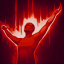
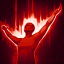
feat: buff god emporer

diff --git a/IsekaiMod/Content/Features/IsekaiProtagonist/GodEmperor/ProtectiveAuraFeature.cs b/IsekaiMod/Content/Features/IsekaiProtagonist/GodEmperor/ProtectiveAuraFeature.cs
@@ -10,6 +10,8 @@ using Kingmaker.UnitLogic.ActivatableAbilities;
 using Kingmaker.UnitLogic.Buffs.Blueprints;
 using Kingmaker.UnitLogic.Buffs.Components;
 using Kingmaker.UnitLogic.FactLogic;
+using Kingmaker.UnitLogic.Mechanics;
+using Kingmaker.UnitLogic.Mechanics.Components;
 using Kingmaker.Utility;
 
 namespace IsekaiMod.Content.Features.IsekaiProtagonist.GodEmperor
@@ -21,28 +23,49 @@ namespace IsekaiMod.Content.Features.IsekaiProtagonist.GodEmperor
             var Icon_Protective_Aura = AssetLoader.LoadInternal("Features", "ICON_PROTECTIVE_AURA.png");
             var ProtectiveAuraBuff = Helpers.CreateBlueprint<BlueprintBuff>("ProtectiveAuraBuff", bp => {
                 bp.SetName("Protective Aura");
-                bp.SetDescription("This character has a +2 bonus on AC and saving throws.");
+                bp.SetDescription("This character has a sacred bonus to AC and saving throws equal to 1/2 the God Emporer's character level.");
                 bp.IsClassFeature = true;
                 bp.m_Icon = Icon_Protective_Aura;
-                bp.AddComponent<AddStatBonus>(c => {
-                    c.Descriptor = ModifierDescriptor.None;
+                bp.AddComponent<AddContextStatBonus>(c => {
+                    c.Descriptor = ModifierDescriptor.Sacred;
                     c.Stat = StatType.AC;
-                    c.Value = 2;
+                    c.Value = new ContextValue()
+                    {
+                        ValueType = ContextValueType.Rank,
+                        ValueRank = AbilityRankType.StatBonus
+                    };
                 });
-                bp.AddComponent<AddStatBonus>(c => {
-                    c.Descriptor = ModifierDescriptor.None;
+                bp.AddComponent<AddContextStatBonus>(c => {
+                    c.Descriptor = ModifierDescriptor.Sacred;
                     c.Stat = StatType.SaveFortitude;
-                    c.Value = 2;
+                    c.Value = new ContextValue()
+                    {
+                        ValueType = ContextValueType.Rank,
+                        ValueRank = AbilityRankType.StatBonus
+                    };
                 });
-                bp.AddComponent<AddStatBonus>(c => {
-                    c.Descriptor = ModifierDescriptor.None;
+                bp.AddComponent<AddContextStatBonus>(c => {
+                    c.Descriptor = ModifierDescriptor.Sacred;
                     c.Stat = StatType.SaveReflex;
-                    c.Value = 2;
+                    c.Value = new ContextValue()
+                    {
+                        ValueType = ContextValueType.Rank,
+                        ValueRank = AbilityRankType.StatBonus
+                    };
                 });
-                bp.AddComponent<AddStatBonus>(c => {
-                    c.Descriptor = ModifierDescriptor.None;
+                bp.AddComponent<AddContextStatBonus>(c => {
+                    c.Descriptor = ModifierDescriptor.Sacred;
                     c.Stat = StatType.SaveWill;
-                    c.Value = 2;
+                    c.Value = new ContextValue()
+                    {
+                        ValueType = ContextValueType.Rank,
+                        ValueRank = AbilityRankType.StatBonus
+                    };
+                });
+                bp.AddComponent<ContextRankConfig>(c => {
+                    c.m_Type = AbilityRankType.StatBonus;
+                    c.m_BaseValueType = ContextRankBaseValueType.CharacterLevel;
+                    c.m_Progression = ContextRankProgression.Div2;
                 });
                 bp.FxOnStart = new PrefabLink();
                 bp.FxOnRemove = new PrefabLink();
@@ -59,7 +82,7 @@ namespace IsekaiMod.Content.Features.IsekaiProtagonist.GodEmperor
             });
             var ProtectiveAuraAreaBuff = Helpers.CreateBlueprint<BlueprintBuff>("ProtectiveAuraAreaBuff", bp => {
                 bp.SetName("Protective Aura");
-                bp.SetDescription("Allies within 40 feet of the God Emperor take a +2 bonus on AC, and saving throws.");
+                bp.SetDescription("Allies within 40 feet of the God Emperor has a sacred bonus to AC and saving throws equal to 1/2 the God Emporer's character level.");
                 bp.m_Icon = Icon_Protective_Aura;
                 bp.IsClassFeature = true;
                 bp.m_Flags = BlueprintBuff.Flags.HiddenInUi;
@@ -71,7 +94,7 @@ namespace IsekaiMod.Content.Features.IsekaiProtagonist.GodEmperor
             });
             var ProtectiveAuraAbility = Helpers.CreateBlueprint<BlueprintActivatableAbility>("ProtectiveAuraAbility", bp => {
                 bp.SetName("Protective Aura");
-                bp.SetDescription("Allies within 40 feet of the God Emperor take a +2 bonus on AC, and saving throws.");
+                bp.SetDescription("Allies within 40 feet of the God Emperor has a sacred bonus to AC and saving throws equal to 1/2 the God Emporer's character level.");
                 bp.m_Icon = Icon_Protective_Aura;
                 bp.m_Buff = ProtectiveAuraAreaBuff.ToReference<BlueprintBuffReference>();
                 bp.Group = ActivatableAbilityGroup.None;
@@ -83,7 +106,7 @@ namespace IsekaiMod.Content.Features.IsekaiProtagonist.GodEmperor
             });
             var ProtectiveAuraFeature = Helpers.CreateBlueprint<BlueprintFeature>("ProtectiveAuraFeature", bp => {
                 bp.SetName("Protective Aura");
-                bp.SetDescription("At 6th level, allies within 40 feet of the God Emperor take a +2 bonus on AC, and saving throws.");
+                bp.SetDescription("At 6th level, allies within 40 feet of the God Emperor has a sacred bonus to AC and saving throws equal to 1/2 the God Emporer's character level.");
                 bp.m_Icon = Icon_Protective_Aura;
                 bp.Ranks = 1;
                 bp.IsClassFeature = true;

diff --git a/IsekaiMod/Content/Features/IsekaiProtagonist/GodEmperor/GloriousAuraFeature.cs b/IsekaiMod/Content/Features/IsekaiProtagonist/GodEmperor/GloriousAuraFeature.cs
@@ -11,6 +11,8 @@ using Kingmaker.UnitLogic.ActivatableAbilities;
 using Kingmaker.UnitLogic.Buffs.Blueprints;
 using Kingmaker.UnitLogic.Buffs.Components;
 using Kingmaker.UnitLogic.FactLogic;
+using Kingmaker.UnitLogic.Mechanics;
+using Kingmaker.UnitLogic.Mechanics.Components;
 using Kingmaker.Utility;
 
 namespace IsekaiMod.Content.Features.IsekaiProtagonist.GodEmperor
@@ -19,21 +21,34 @@ namespace IsekaiMod.Content.Features.IsekaiProtagonist.GodEmperor
     {
         public static void Add()
         {
-            var Icon_BurstOfGlory = Resources.GetBlueprint<BlueprintAbility>("1bc83efec9f8c4b42a46162d72cbf494").m_Icon;
+            var Icon_Glorious_Aura = AssetLoader.LoadInternal("Features", "ICON_GLORIOUS_AURA.png");
             var GloriousAuraBuff = Helpers.CreateBlueprint<BlueprintBuff>("GloriousAuraBuff", bp => {
                 bp.SetName("Glorious Aura");
-                bp.SetDescription("This character has a +2 bonus on attack {g|Encyclopedia:Dice}rolls{/g} and caster level checks made to overcome spell resistance.");
+                bp.SetDescription("This character has a competence bonus on attack {g|Encyclopedia:Dice}rolls{/g} and caster level checks made to overcome spell resistance equal to 1/2 the God Emporer's character level.");
                 bp.IsClassFeature = true;
-                bp.m_Icon = Icon_BurstOfGlory;
-                bp.AddComponent<AddStatBonus>(c => {
-                    c.Descriptor = ModifierDescriptor.None;
+                bp.m_Icon = Icon_Glorious_Aura;
+                bp.AddComponent<AddContextStatBonus>(c => {
+                    c.Descriptor = ModifierDescriptor.Competence;
                     c.Stat = StatType.AdditionalAttackBonus;
-                    c.Value = 2;
+                    c.Value = new ContextValue()
+                    {
+                        ValueType = ContextValueType.Rank,
+                        ValueRank = AbilityRankType.StatBonus
+                    };
                 });
                 bp.AddComponent<SpellPenetrationBonus>(c => {
-                    c.Descriptor = ModifierDescriptor.None;
-                    c.Value = 2;
+                    c.Descriptor = ModifierDescriptor.Competence;
                     c.CheckFact = false;
+                    c.Value = new ContextValue()
+                    {
+                        ValueType = ContextValueType.Rank,
+                        ValueRank = AbilityRankType.StatBonus
+                    };
+                });
+                bp.AddComponent<ContextRankConfig>(c => {
+                    c.m_Type = AbilityRankType.StatBonus;
+                    c.m_BaseValueType = ContextRankBaseValueType.CharacterLevel;
+                    c.m_Progression = ContextRankProgression.Div2;
                 });
                 bp.FxOnStart = new PrefabLink();
                 bp.FxOnRemove = new PrefabLink();
@@ -50,8 +65,8 @@ namespace IsekaiMod.Content.Features.IsekaiProtagonist.GodEmperor
             });
             var GloriousAuraAreaBuff = Helpers.CreateBlueprint<BlueprintBuff>("GloriousAuraAreaBuff", bp => {
                 bp.SetName("Glorious Aura");
-                bp.SetDescription("Allies within 40 feet of the God Emperor gain a +2 bonus on attack {g|Encyclopedia:Dice}rolls{/g} and caster level checks made to overcome spell resistance.");
-                bp.m_Icon = Icon_BurstOfGlory;
+                bp.SetDescription("Allies within 40 feet of the God Emperor gain a competence bonus on attack {g|Encyclopedia:Dice}rolls{/g} and caster level checks made to overcome spell resistance equal to 1/2 the God Emporer's character level.");
+                bp.m_Icon = Icon_Glorious_Aura;
                 bp.IsClassFeature = true;
                 bp.m_Flags = BlueprintBuff.Flags.HiddenInUi;
                 bp.AddComponent<AddAreaEffect>(c => {
@@ -62,8 +77,8 @@ namespace IsekaiMod.Content.Features.IsekaiProtagonist.GodEmperor
             });
             var GloriousAuraAbility = Helpers.CreateBlueprint<BlueprintActivatableAbility>("GloriousAuraAbility", bp => {
                 bp.SetName("Glorious Aura");
-                bp.SetDescription("Allies within 40 feet of the God Emperor gain a +2 bonus on attack {g|Encyclopedia:Dice}rolls{/g} and caster level checks made to overcome spell resistance.");
-                bp.m_Icon = Icon_BurstOfGlory;
+                bp.SetDescription("Allies within 40 feet of the God Emperor gain a competence bonus on attack {g|Encyclopedia:Dice}rolls{/g} and caster level checks made to overcome spell resistance equal to 1/2 the God Emporer's character level.");
+                bp.m_Icon = Icon_Glorious_Aura;
                 bp.m_Buff = GloriousAuraAreaBuff.ToReference<BlueprintBuffReference>();
                 bp.Group = ActivatableAbilityGroup.None;
                 bp.WeightInGroup = 1;
@@ -74,8 +89,8 @@ namespace IsekaiMod.Content.Features.IsekaiProtagonist.GodEmperor
             });
             var GloriousAuraFeature = Helpers.CreateBlueprint<BlueprintFeature>("GloriousAuraFeature", bp => {
                 bp.SetName("Glorious Aura");
-                bp.SetDescription("At 9th level, allies within 40 feet of the God Emperor gain a +2 bonus on attack {g|Encyclopedia:Dice}rolls{/g} and caster level checks made to overcome spell resistance.");
-                bp.m_Icon = Icon_BurstOfGlory;
+                bp.SetDescription("At 9th level, allies within 40 feet of the God Emperor gain a competence bonus on attack {g|Encyclopedia:Dice}rolls{/g} and caster level checks made to overcome spell resistance equal to 1/2 the God Emporer's character level.");
+                bp.m_Icon = Icon_Glorious_Aura;
                 bp.Ranks = 1;
                 bp.IsClassFeature = true;
                 bp.AddComponent<AddFacts>(c => {

diff --git a/IsekaiMod/Content/Features/IsekaiProtagonist/GodEmperor/SiphoningAuraFeature.cs b/IsekaiMod/Content/Features/IsekaiProtagonist/GodEmperor/SiphoningAuraFeature.cs
@@ -19,40 +19,41 @@ namespace IsekaiMod.Content.Features.IsekaiProtagonist.GodEmperor
         public static void Add()
         {
             var Icon_SiphoningAura = AssetLoader.LoadInternal("Features", "ICON_SIPHONING_AURA.png");
+            var Icon_SiphoningDebuff = AssetLoader.LoadInternal("Features", "ICON_SIPHONING_DEBUFF.png");
             var SiphoningAuraBuff = Helpers.CreateBlueprint<BlueprintBuff>("SiphoningAuraBuff", bp => {
                 bp.SetName("Siphoning Aura");
-                bp.SetDescription("This creature has a –2 penalty on all attributes.");
+                bp.SetDescription("This creature has a –4 penalty on all attributes.");
                 bp.IsClassFeature = true;
-                bp.m_Icon = Icon_SiphoningAura;
+                bp.m_Icon = Icon_SiphoningDebuff;
                 bp.AddComponent<AddStatBonus>(c => {
                     c.Descriptor = ModifierDescriptor.Penalty;
                     c.Stat = StatType.Strength;
-                    c.Value = -2;
+                    c.Value = -4;
                 });
                 bp.AddComponent<AddStatBonus>(c => {
                     c.Descriptor = ModifierDescriptor.Penalty;
                     c.Stat = StatType.Dexterity;
-                    c.Value = -2;
+                    c.Value = -4;
                 });
                 bp.AddComponent<AddStatBonus>(c => {
                     c.Descriptor = ModifierDescriptor.Penalty;
                     c.Stat = StatType.Constitution;
-                    c.Value = -2;
+                    c.Value = -4;
                 });
                 bp.AddComponent<AddStatBonus>(c => {
                     c.Descriptor = ModifierDescriptor.Penalty;
                     c.Stat = StatType.Intelligence;
-                    c.Value = -2;
+                    c.Value = -4;
                 });
                 bp.AddComponent<AddStatBonus>(c => {
                     c.Descriptor = ModifierDescriptor.Penalty;
                     c.Stat = StatType.Wisdom;
-                    c.Value = -2;
+                    c.Value = -4;
                 });
                 bp.AddComponent<AddStatBonus>(c => {
                     c.Descriptor = ModifierDescriptor.Penalty;
                     c.Stat = StatType.Charisma;
-                    c.Value = -2;
+                    c.Value = -4;
                 });
                 bp.FxOnStart = new PrefabLink();
                 bp.FxOnRemove = new PrefabLink();
@@ -69,10 +70,9 @@ namespace IsekaiMod.Content.Features.IsekaiProtagonist.GodEmperor
             });
             var SiphoningAuraAreaBuff = Helpers.CreateBlueprint<BlueprintBuff>("SiphoningAuraAreaBuff", bp => {
                 bp.SetName("Siphoning Aura");
-                bp.SetDescription("Enemies within 40 feet of the God Emperor take a –2 penalty on all attributes.");
+                bp.SetDescription("Enemies within 40 feet of the God Emperor take a –4 penalty on all attributes.");
                 bp.m_Icon = Icon_SiphoningAura;
                 bp.IsClassFeature = true;
-                bp.m_Flags = BlueprintBuff.Flags.HiddenInUi;
                 bp.AddComponent<AddAreaEffect>(c => {
                     c.m_AreaEffect = SiphoningAuraArea.ToReference<BlueprintAbilityAreaEffectReference>();
                 });
@@ -81,7 +81,7 @@ namespace IsekaiMod.Content.Features.IsekaiProtagonist.GodEmperor
             });
             var SiphoningAuraAbility = Helpers.CreateBlueprint<BlueprintActivatableAbility>("SiphoningAuraAbility", bp => {
                 bp.SetName("Siphoning Aura");
-                bp.SetDescription("Enemies within 40 feet of the God Emperor take a –2 penalty on all attributes.");
+                bp.SetDescription("Enemies within 40 feet of the God Emperor take a –4 penalty on all attributes.");
                 bp.m_Icon = Icon_SiphoningAura;
                 bp.m_Buff = SiphoningAuraAreaBuff.ToReference<BlueprintBuffReference>();
                 bp.Group = ActivatableAbilityGroup.None;
@@ -93,7 +93,7 @@ namespace IsekaiMod.Content.Features.IsekaiProtagonist.GodEmperor
             });
             var SiphoningAuraFeature = Helpers.CreateBlueprint<BlueprintFeature>("SiphoningAuraFeature", bp => {
                 bp.SetName("Siphoning Aura");
-                bp.SetDescription("At 12th level, enemies within 40 feet of the God Emperor take a –2 penalty on all attributes.");
+                bp.SetDescription("At 12th level, enemies within 40 feet of the God Emperor take a –4 penalty on all attributes.");
                 bp.m_Icon = Icon_SiphoningAura;
                 bp.Ranks = 1;
                 bp.IsClassFeature = true;

diff --git a/IsekaiMod/Content/Backgrounds/HighschoolStudent.cs b/IsekaiMod/Content/Backgrounds/HighschoolStudent.cs
@@ -3,6 +3,7 @@ using IsekaiMod.Extensions;
 using Kingmaker.Blueprints.Classes;
 using Kingmaker.UnitLogic.FactLogic;
 using Kingmaker.EntitySystem.Stats;
+using Kingmaker.Enums;
 
 namespace IsekaiMod.Content.Backgrounds
 {
@@ -20,26 +21,32 @@ namespace IsekaiMod.Content.Backgrounds
                 bp.Ranks = 1;
                 bp.IsClassFeature = true;
                 bp.AddComponent<AddStatBonus>(c => {
+                    c.Descriptor = ModifierDescriptor.Trait;
                     c.Stat = StatType.Strength;
                     c.Value = 1;
                 });
                 bp.AddComponent<AddStatBonus>(c => {
+                    c.Descriptor = ModifierDescriptor.Trait;
                     c.Stat = StatType.Dexterity;
                     c.Value = 1;
                 });
                 bp.AddComponent<AddStatBonus>(c => {
+                    c.Descriptor = ModifierDescriptor.Trait;
                     c.Stat = StatType.Constitution;
                     c.Value = 1;
                 });
                 bp.AddComponent<AddStatBonus>(c => {
+                    c.Descriptor = ModifierDescriptor.Trait;
                     c.Stat = StatType.Intelligence;
                     c.Value = 1;
                 });
                 bp.AddComponent<AddStatBonus>(c => {
+                    c.Descriptor = ModifierDescriptor.Trait;
                     c.Stat = StatType.Wisdom;
                     c.Value = 1;
                 });
                 bp.AddComponent<AddStatBonus>(c => {
+                    c.Descriptor = ModifierDescriptor.Trait;
                     c.Stat = StatType.Charisma;
                     c.Value = 1;
                 });

diff --git a/IsekaiMod/Content/Backgrounds/RebornDemonLord.cs b/IsekaiMod/Content/Backgrounds/RebornDemonLord.cs
@@ -4,6 +4,7 @@ using Kingmaker.Blueprints.Classes;
 using Kingmaker.UnitLogic.FactLogic;
 using Kingmaker.EntitySystem.Stats;
 using Kingmaker.Enums.Damage;
+using Kingmaker.Enums;
 
 namespace IsekaiMod.Content.Backgrounds
 {
@@ -21,6 +22,7 @@ namespace IsekaiMod.Content.Backgrounds
                 bp.Ranks = 1;
                 bp.IsClassFeature = true;
                 bp.AddComponent<AddStatBonus>(c => {
+                    c.Descriptor = ModifierDescriptor.Trait;
                     c.Stat = StatType.Strength;
                     c.Value = 2;
                 });

diff --git a/IsekaiMod/Content/Features/IsekaiProtagonist/OverpoweredAbility/WinnerFeature.cs b/IsekaiMod/Content/Features/IsekaiProtagonist/OverpoweredAbility/WinnerFeature.cs
@@ -17,7 +17,7 @@ namespace IsekaiMod.Content.Features.IsekaiProtagonist.OverpoweredAbility
     {
         public static void Add()
         {
-            var Icon_Winner = Resources.GetBlueprint<BlueprintAbility>("0082c3ed87626204f9b46d84cec1518d").m_Icon;
+            var Icon_Winner = AssetLoader.LoadInternal("Features", "ICON_WINNER.png");
             var WinnerAbility = Helpers.CreateBlueprint<BlueprintAbility>("WinnerAbility", bp => {
                 bp.SetName("Celebrate");
                 bp.SetDescription("You celebrate your awesomeness (Does nothing).");

diff --git a/IsekaiMod/Content/Features/IsekaiProtagonist/IsekaiFastMovement.cs b/IsekaiMod/Content/Features/IsekaiProtagonist/IsekaiFastMovement.cs
@@ -17,7 +17,7 @@ namespace IsekaiMod.Content.Features.IsekaiProtagonist
                 bp.SetDescription("At 8th level, you gain a +10 {g|Encyclopedia:Bonus}bonus{/g} to your {g|Encyclopedia:Speed}speed{/g}.");
                 bp.m_Icon = Icon_FastMovement;
                 bp.AddComponent<AddStatBonus>(c => {
-                    c.Descriptor = ModifierDescriptor.None;
+                    c.Descriptor = ModifierDescriptor.UntypedStackable;
                     c.Stat = StatType.Speed;
                     c.Value = 10;
                 });

diff --git a/IsekaiMod/Content/Classes/IsekaiProtagonist/IsekaiProtagonistClass.cs b/IsekaiMod/Content/Classes/IsekaiProtagonist/IsekaiProtagonistClass.cs
@@ -30,6 +30,7 @@ namespace IsekaiMod.Content.Classes.IsekaiProtagonist
 
         public static void Add()
         {
+            // TODO: buff glorious and protective aura. change some images aswell.
             // TODO: rename protective aura
             // TODO: add vampiric drain spell for isekai vampire heritage
             // TODO: Load localisation instead of hardcoded strings

diff --git a/CHANGELOG.md b/CHANGELOG.md
@@ -4,12 +4,21 @@ All notable changes to this project will be documented in this file.
 The format is based on [Keep a Changelog](https://keepachangelog.com/en/1.0.0/),
 and this project adheres to [Semantic Versioning](https://semver.org/spec/v2.0.0.html).
 
-## [Unreleased]
+## [1.8.0] - 2022-11-13
 ### Added
 - Added `Isekai Protagonist` dialogue when speaking to Hulrun at the Kenabres festival.
 - Added `Isekai Vampire` Heritage (Dhampir Heritage).
 ### Changed
 - Buffed `Isekai Succubus` with +4 racial bonus to Dexterity.
+- Buffed `God Emporer`'s `Glorious Aura` to give a 1/2 level competence bonus.
+- Buffed `God Emporer`'s `Protective Aura` to give a 1/2 level sacred bonus.
+- Buffed `God Emporer`'s `Siphoning Aura` to give a -4 penalty.
+- Changed `Highschool Student` background to give a trait bonus instead of untyped.
+- Changed `Reborn Demon Lord` background to give a trait bonus instead of untyped.
+- Updated icon for `Glorious Aura` feature.
+- Updated icon for `Siphoning Aura` feature.
+- Updated icon for `Dark Aura` feature.
+- Updated icon for `Winner` feature.
 ### Fixed
 - Fixed Villain Spellbook merge.
 
